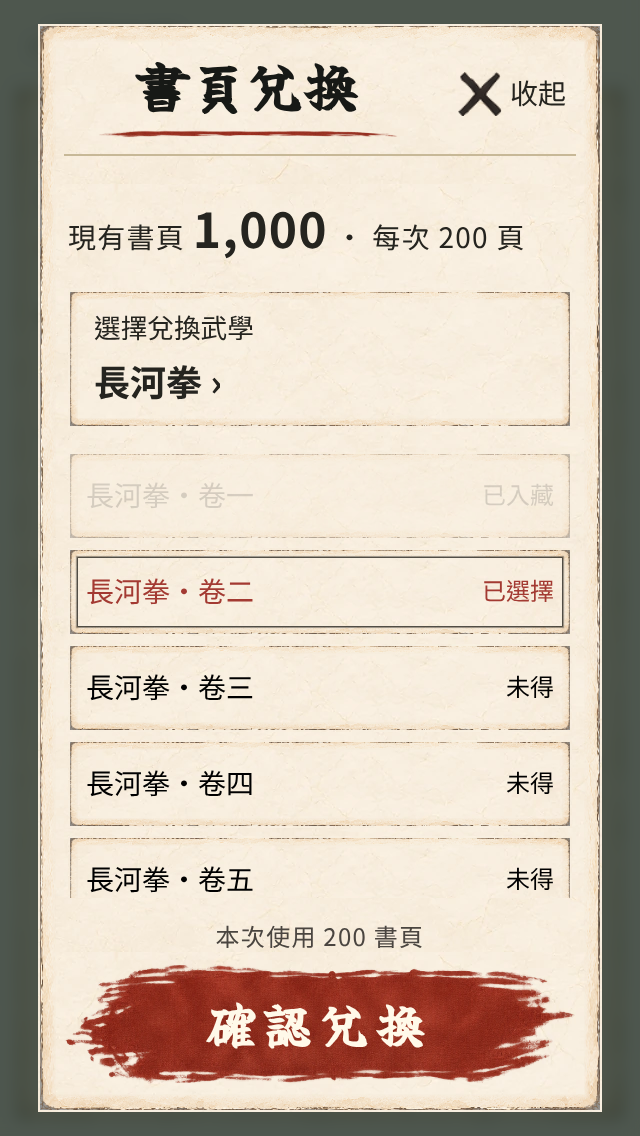
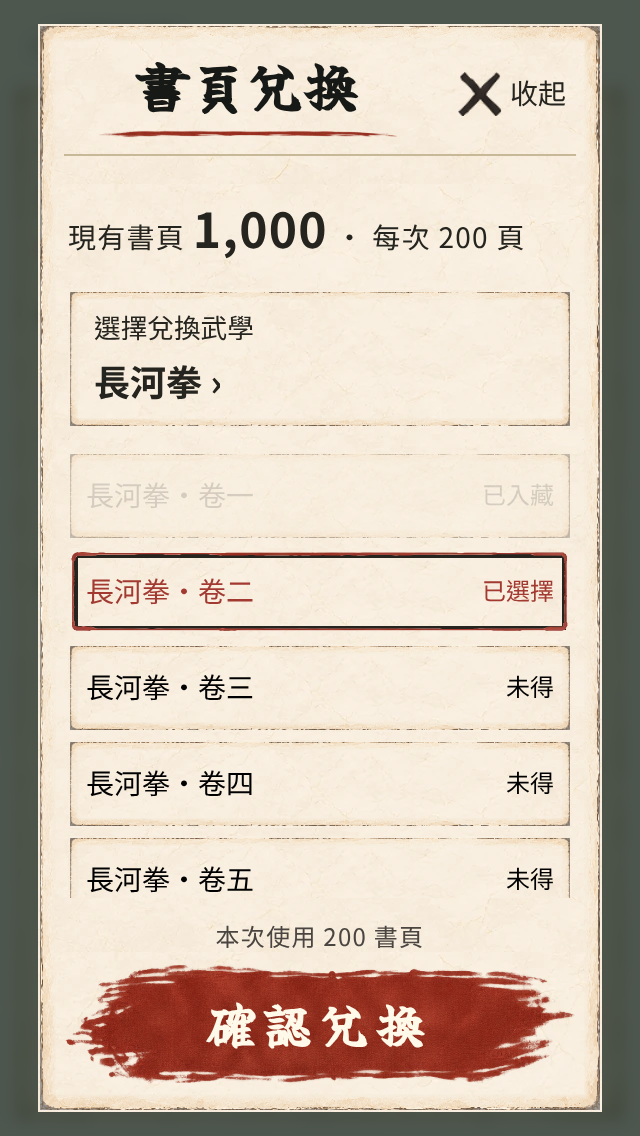
fix: 修正兌換冊頁朱砂選中框
Story: redesign-scope 第52項

避免共用磨邊框的複合選擇器蓋過已選卷次；補驗實際選取素材、鍵盤焦點及390完整流程。860項測試及正式構建再驗通過。

Changed region(s): [[0.0938, 0.4621, 0.9062, 0.5546]]

diff --git a/src/components/ink/gacha-ux.css b/src/components/ink/gacha-ux.css
@@ -91,7 +91,7 @@ body .ink-codex-school-picker>span:last-child { flex:none; }
 body .ink-codex-sheet :is(.ink-codex-exchange-volumes button,.ink-codex-exchange-choose,.ink-codex-manual-actions .ink-btn:not(.ink-btn--primary)) { position:relative; isolation:isolate; border-color:transparent; background:var(--ui-fiber) center/384px repeat,var(--ui-paper); }
 body .ink-codex-sheet :is(.ink-codex-exchange-volumes button,.ink-codex-exchange-choose,.ink-codex-manual-actions .ink-btn:not(.ink-btn--primary))::before { display:block; content:''; position:absolute; inset:0; pointer-events:none; border:4px solid transparent; border-image:var(--ui-frame) 48 / 1 / 0 stretch; background:none; }
 body .ink-codex-sheet .ink-codex-exchange-volumes button[aria-pressed='true'] { outline:0; }
-body .ink-codex-sheet .ink-codex-exchange-volumes button[aria-pressed='true']::before { border-image:var(--ui-selected) 13 / 1 / 0 stretch; }
+body .ink-codex-sheet .ink-codex-exchange-volumes button[aria-pressed='true']:not(:disabled)::before { border-image:var(--ui-selected) 13 / 1 / 0 stretch; }
 body .ink-codex-page .ink-codex-wallet { display:grid; grid-template-columns:minmax(0,1fr) minmax(0,1fr) 44px; gap:8px; }
 body .ink-codex-page .ink-codex-wallet>span { flex-wrap:wrap; min-width:0; gap:2px 4px; line-height:16px; }
 body .ink-codex-page .ink-codex-wallet>span b { max-width:100%; overflow-wrap:anywhere; }

diff --git a/scripts/qa/checkDesignSkillsFocus.py b/scripts/qa/checkDesignSkillsFocus.py
@@ -8,6 +8,7 @@ with sync_playwright() as p:
  option=page.locator('[data-exchange-art="'+ids['external'][0]+'"]');option.scroll_into_view_if_needed();option.click();stable(page);before=snapshot(page)
  page.keyboard.press('Tab');selected=page.locator('.ink-codex-exchange-volumes button[aria-pressed=true]');selected.focus();stable(page)
  assert selected.evaluate('e=>e.matches(":focus-visible")&&getComputedStyle(e).outlineWidth==="2px"&&getComputedStyle(e).outlineStyle==="solid"')
+ assert selected.evaluate('e=>getComputedStyle(e,"::before").borderImageSource.includes("brush-selected-reference.webp")')
  assert selected.evaluate('e=>getComputedStyle(e).outlineColor')=='rgb(37, 36, 31)';sheet_check(page);shot(page,'after-keyboard-focus.png')
  assert page.locator('dialog[open]').evaluate('e=>e.matches(":modal")')
  assert page.evaluate('()=>{const before=document.activeElement;document.querySelector(".ink-codex-heading-actions button").focus();return document.activeElement===before}')
@@ -17,4 +18,4 @@ with sync_playwright() as p:
  page.keyboard.press('Escape');stable(page);assert not page.locator('dialog[open]').count();assert snapshot(page)==before
  assert page.evaluate('document.activeElement===document.querySelector(".ink-codex-collection-tools>button")');assert not errors,errors
  c.close();b.close()
-(OUT/'focus-report.json').write_text(json.dumps({'selectedVolumeFocusVisible':True,'nativeFocusTrap':True,'escapeRestoresTriggerFocus':True,'noDebitOrLearn':True,'actualIphone':False,'pageerrors':errors},ensure_ascii=False,indent=2));print('DESIGN_FOCUS_PASS')
+(OUT/'focus-report.json').write_text(json.dumps({'selectedVolumeFocusVisible':True,'selectedVolumeUsesCinnabarFrame':True,'nativeFocusTrap':True,'escapeRestoresTriggerFocus':True,'noDebitOrLearn':True,'actualIphone':False,'pageerrors':errors},ensure_ascii=False,indent=2));print('DESIGN_FOCUS_PASS')

diff --git a/production/qa/evidence/redesign/design-skills/README.md b/production/qa/evidence/redesign/design-skills/README.md
@@ -20,6 +20,7 @@
 - `ui-report.json`：Chromium及WebKit，各320×568、390×844、430×932，DPR2。真點小冊／流派、珍本池付費額度不足、真身份書封、七卷、預覽／取消、連點只扣一次200頁、不自動學習／換裝、標題／出口／確認可見及返回。
 - `state-report.json`：空家藏、免費9,999,999／付費1,234,567及書頁9,999,999、玉石59／書頁199不足，以及真學習／100頁升階／舊本轉20頁／200兩換10頁。
 - `person-report.json`：共用標題／收起鍵改為安全分欄後，人物換裝六組回歸；真比較、確認、雙配搭獨立、返回及空／長名稱。
+- `ui-final-390.json`：最後補正朱砂選中框後，再以正式390構建完整重播；不取代原六組報告。
 - `focus-report.json`：最終構建的選中卷次仍有獨立鍵盤焦點框，收起後可繼續操作。
 - `gacha-link.log`：真十連、結果導向欄位、比較確認，不再扣玉石／書頁。
 - `test.log`、`build.log`、`narrate.log`、`copy.log`：正式發布檢查。
